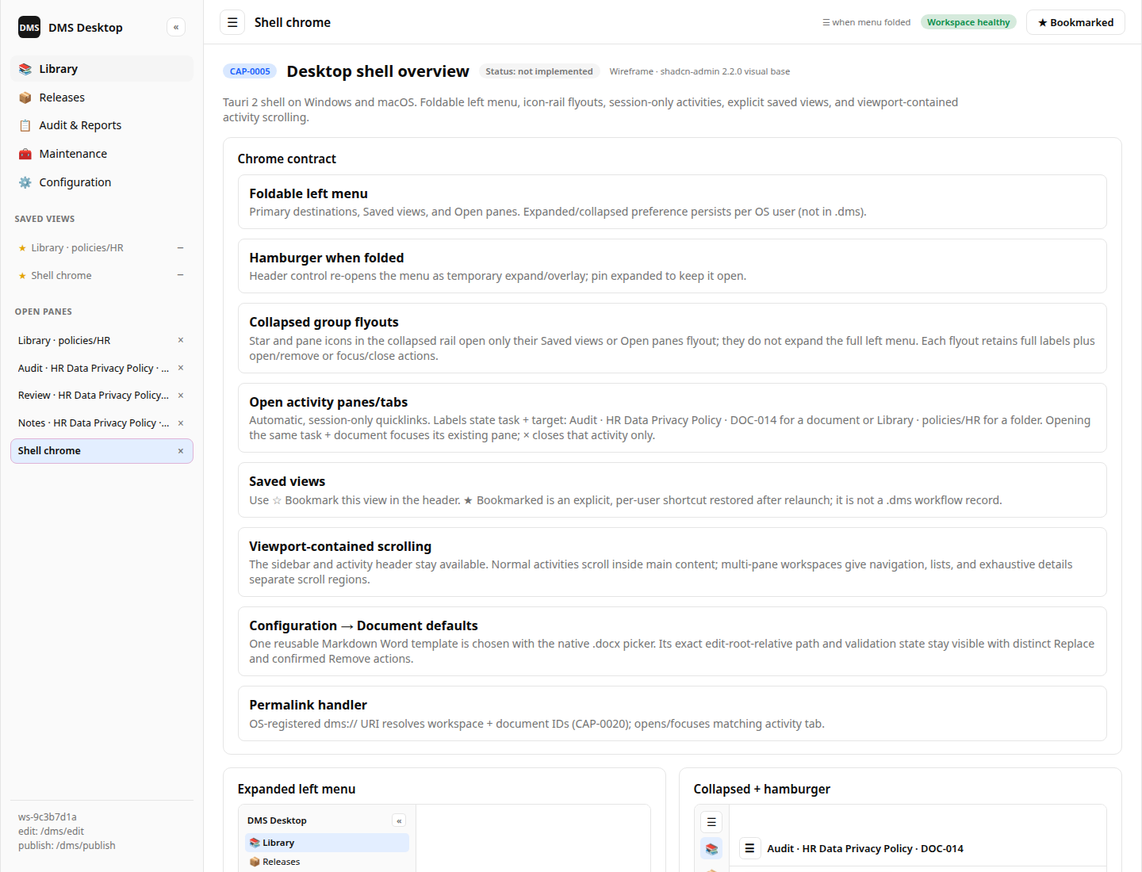
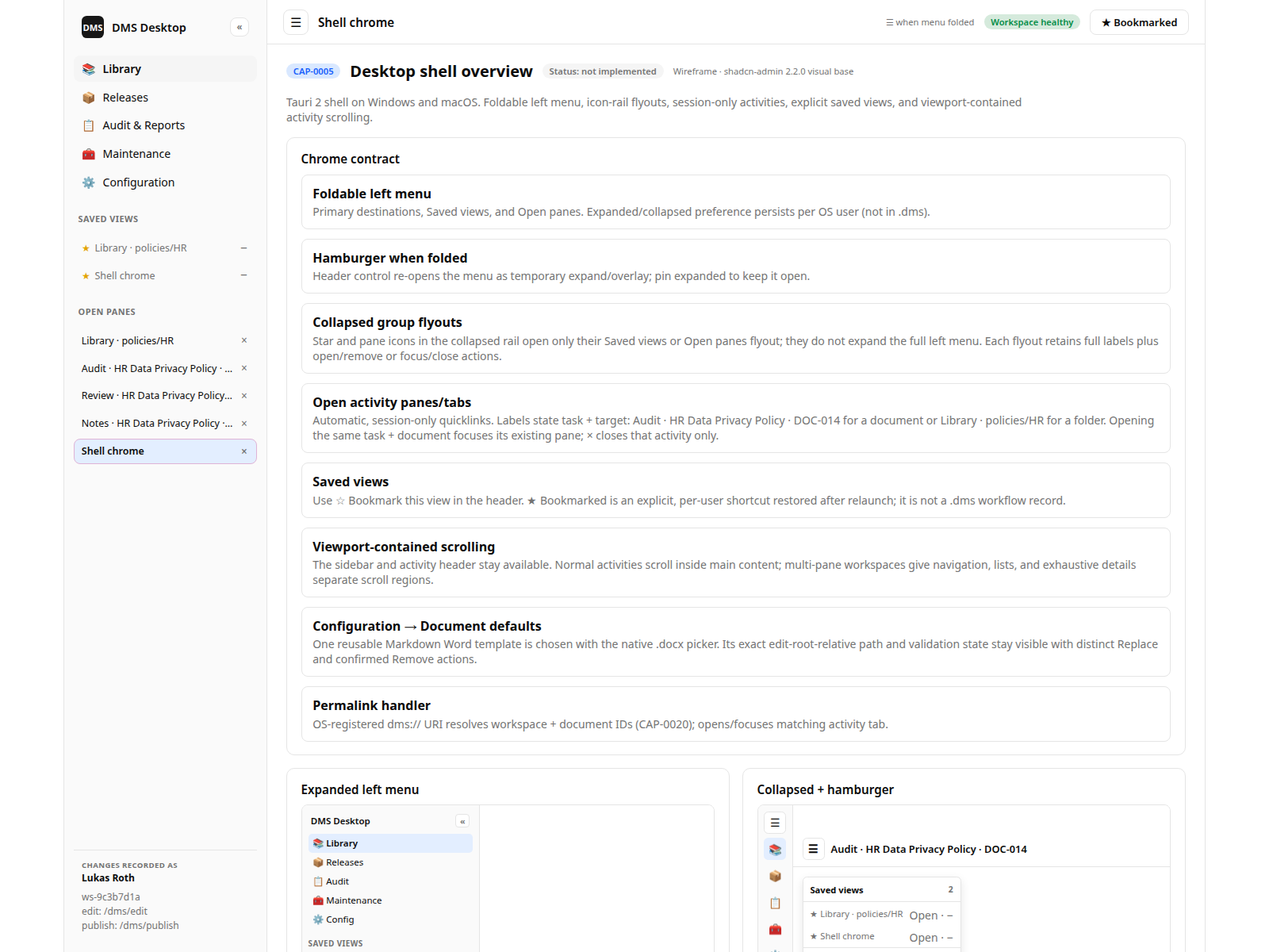
feat(library): show local change author
- Let Library operators see the local OS identity DMS records for ordinary changes.
- Keep the displayed author distinct from Microsoft Entra approval identity.
- Add the workspace-summary field, escaped sidebar markup, coverage, and CAP/wireframe evidence.

This change makes the recorded change author visible before an operator acts.

Affected files/components:
- crates/dms-desktop/src/lib.rs
- crates/dms-desktop/ui/app.mjs
- crates/dms-desktop/ui/app.test.mjs
- crates/dms-desktop/ui/styles.css
- docs/product/capabilities/CAP-0005-desktop-shell.md
- docs/product/wireframes/
- docs/changes/archive/CHG-0031-library-change-author-identity.md

diff --git a/docs/product/wireframes/html/CAP-0005-desktop-shell.html b/docs/product/wireframes/html/CAP-0005-desktop-shell.html
@@ -60,6 +60,8 @@ code { font-family: ui-monospace, SFMono-Regular, Menlo, monospace; font-size: 0
 .pane-close { color: var(--muted-foreground); font-size: 0.85rem; line-height: 1; padding: 0 0.15rem; }
 .pane-remove { color: var(--muted-foreground); font-size: 0.95rem; line-height: 1; padding: 0 0.15rem; }
 .sidebar-foot { margin-top: auto; padding: 0.75rem 0.625rem; font-size: 0.75rem; color: var(--muted-foreground); line-height: 1.5; border-top: 1px solid var(--sidebar-border); }
+.foot-label { display: block; color: var(--muted-foreground); font-size: 0.6rem; font-weight: 700; letter-spacing: 0.04em; text-transform: uppercase; }
+.sidebar-foot > strong, .mini-foot > strong { display: block; margin-bottom: 0.35rem; color: var(--foreground); }
 .main { flex: 1; min-width: 0; display: flex; flex-direction: column; background: var(--background); }
 .header { height: 3.5rem; border-bottom: 1px solid var(--border); display: flex; align-items: center; gap: 0.75rem; padding: 0 1.25rem; }
 .header h1 { font-size: 0.95rem; font-weight: 600; margin: 0; }
@@ -258,6 +260,8 @@ tr:last-child td { border-bottom: 0; }
     <div class="pane-sec">Open panes</div>
     <div class="pane-tabs"><div class="pane-tab"><span class="pane-label" title="Library · policies/HR">Library · policies/HR</span><span class="pane-close">×</span></div><div class="pane-tab"><span class="pane-label" title="Audit · HR Data Privacy Policy · DOC-014">Audit · HR Data Privacy Policy · DOC-014</span><span class="pane-close">×</span></div><div class="pane-tab"><span class="pane-label" title="Review · HR Data Privacy Policy · DOC-014">Review · HR Data Privacy Policy · DOC-014</span><span class="pane-close">×</span></div><div class="pane-tab"><span class="pane-label" title="Notes · HR Data Privacy Policy · DOC-014">Notes · HR Data Privacy Policy · DOC-014</span><span class="pane-close">×</span></div><div class="pane-tab active"><span class="pane-label" title="Shell chrome">Shell chrome</span><span class="pane-close">×</span></div></div>
     <div class="sidebar-foot">
+      <span class="foot-label">Changes recorded as</span>
+      <strong>Lukas Roth</strong>
       ws-9c3b7d1a<br/>
       edit: /dms/edit<br/>
       publish: /dms/publish
@@ -328,7 +332,7 @@ tr:last-child td { border-bottom: 0; }
                 <div>Audit · HR Data Privacy Policy · DOC-014 <span>×</span></div>
                 <div>Review · HR Data Privacy Policy · DOC-014 <span>×</span></div>
               </div>
-              <div class="mini-foot">ws-9c3b7d1a<br/>edit: /dms/edit<br/>publish: /dms/publish</div>
+              <div class="mini-foot"><span class="foot-label">Changes recorded as</span><strong>Lukas Roth</strong><br/>ws-9c3b7d1a<br/>edit: /dms/edit<br/>publish: /dms/publish</div>
             </div>
             <div class="mini-main"><div class="mini-header">Library · policies/HR <span class="mini-bookmark">☆ Bookmark this view</span></div><p class="muted" style="padding:0.75rem;margin:0;font-size:0.75rem">The selected Open pane and this header identify the current surface.</p></div>
           </div>

diff --git a/docs/product/wireframes/html/CAP-0015-document-control-data.html b/docs/product/wireframes/html/CAP-0015-document-control-data.html
@@ -60,6 +60,8 @@ code { font-family: ui-monospace, SFMono-Regular, Menlo, monospace; font-size: 0
 .pane-close { color: var(--muted-foreground); font-size: 0.85rem; line-height: 1; padding: 0 0.15rem; }
 .pane-remove { color: var(--muted-foreground); font-size: 0.95rem; line-height: 1; padding: 0 0.15rem; }
 .sidebar-foot { margin-top: auto; padding: 0.75rem 0.625rem; font-size: 0.75rem; color: var(--muted-foreground); line-height: 1.5; border-top: 1px solid var(--sidebar-border); }
+.foot-label { display: block; color: var(--muted-foreground); font-size: 0.6rem; font-weight: 700; letter-spacing: 0.04em; text-transform: uppercase; }
+.sidebar-foot > strong, .mini-foot > strong { display: block; margin-bottom: 0.35rem; color: var(--foreground); }
 .main { flex: 1; min-width: 0; display: flex; flex-direction: column; background: var(--background); }
 .header { height: 3.5rem; border-bottom: 1px solid var(--border); display: flex; align-items: center; gap: 0.75rem; padding: 0 1.25rem; }
 .header h1 { font-size: 0.95rem; font-weight: 600; margin: 0; }
@@ -258,6 +260,8 @@ tr:last-child td { border-bottom: 0; }
     <div class="pane-sec">Open panes</div>
     <div class="pane-tabs"><div class="pane-tab"><span class="pane-label" title="Library · policies/HR">Library · policies/HR</span><span class="pane-close">×</span></div><div class="pane-tab"><span class="pane-label" title="Audit · HR Data Privacy Policy · DOC-014">Audit · HR Data Privacy Policy · DOC-014</span><span class="pane-close">×</span></div><div class="pane-tab"><span class="pane-label" title="Review · HR Data Privacy Policy · DOC-014">Review · HR Data Privacy Policy · DOC-014</span><span class="pane-close">×</span></div><div class="pane-tab"><span class="pane-label" title="Notes · HR Data Privacy Policy · DOC-014">Notes · HR Data Privacy Policy · DOC-014</span><span class="pane-close">×</span></div><div class="pane-tab active"><span class="pane-label" title="Document · HR Data Privacy Policy · DOC-014">Document · HR Data Privacy Policy · DOC-014</span><span class="pane-close">×</span></div></div>
     <div class="sidebar-foot">
+      <span class="foot-label">Changes recorded as</span>
+      <strong>Lukas Roth</strong>
       ws-9c3b7d1a<br/>
       edit: /dms/edit<br/>
       publish: /dms/publish

diff --git a/docs/product/wireframes/html/CAP-0020-document-permalinks.html b/docs/product/wireframes/html/CAP-0020-document-permalinks.html
@@ -60,6 +60,8 @@ code { font-family: ui-monospace, SFMono-Regular, Menlo, monospace; font-size: 0
 .pane-close { color: var(--muted-foreground); font-size: 0.85rem; line-height: 1; padding: 0 0.15rem; }
 .pane-remove { color: var(--muted-foreground); font-size: 0.95rem; line-height: 1; padding: 0 0.15rem; }
 .sidebar-foot { margin-top: auto; padding: 0.75rem 0.625rem; font-size: 0.75rem; color: var(--muted-foreground); line-height: 1.5; border-top: 1px solid var(--sidebar-border); }
+.foot-label { display: block; color: var(--muted-foreground); font-size: 0.6rem; font-weight: 700; letter-spacing: 0.04em; text-transform: uppercase; }
+.sidebar-foot > strong, .mini-foot > strong { display: block; margin-bottom: 0.35rem; color: var(--foreground); }
 .main { flex: 1; min-width: 0; display: flex; flex-direction: column; background: var(--background); }
 .header { height: 3.5rem; border-bottom: 1px solid var(--border); display: flex; align-items: center; gap: 0.75rem; padding: 0 1.25rem; }
 .header h1 { font-size: 0.95rem; font-weight: 600; margin: 0; }
@@ -258,6 +260,8 @@ tr:last-child td { border-bottom: 0; }
     <div class="pane-sec">Open panes</div>
     <div class="pane-tabs"><div class="pane-tab"><span class="pane-label" title="Library · policies/HR">Library · policies/HR</span><span class="pane-close">×</span></div><div class="pane-tab"><span class="pane-label" title="Audit · HR Data Privacy Policy · DOC-014">Audit · HR Data Privacy Policy · DOC-014</span><span class="pane-close">×</span></div><div class="pane-tab"><span class="pane-label" title="Review · HR Data Privacy Policy · DOC-014">Review · HR Data Privacy Policy · DOC-014</span><span class="pane-close">×</span></div><div class="pane-tab"><span class="pane-label" title="Notes · HR Data Privacy Policy · DOC-014">Notes · HR Data Privacy Policy · DOC-014</span><span class="pane-close">×</span></div><div class="pane-tab active"><span class="pane-label" title="Document · HR Data Privacy Policy · DOC-014">Document · HR Data Privacy Policy · DOC-014</span><span class="pane-close">×</span></div></div>
     <div class="sidebar-foot">
+      <span class="foot-label">Changes recorded as</span>
+      <strong>Lukas Roth</strong>
       ws-9c3b7d1a<br/>
       edit: /dms/edit<br/>
       publish: /dms/publish

diff --git a/docs/product/wireframes/html/CAP-0001-local-folder-dms.html b/docs/product/wireframes/html/CAP-0001-local-folder-dms.html
@@ -60,6 +60,8 @@ code { font-family: ui-monospace, SFMono-Regular, Menlo, monospace; font-size: 0
 .pane-close { color: var(--muted-foreground); font-size: 0.85rem; line-height: 1; padding: 0 0.15rem; }
 .pane-remove { color: var(--muted-foreground); font-size: 0.95rem; line-height: 1; padding: 0 0.15rem; }
 .sidebar-foot { margin-top: auto; padding: 0.75rem 0.625rem; font-size: 0.75rem; color: var(--muted-foreground); line-height: 1.5; border-top: 1px solid var(--sidebar-border); }
+.foot-label { display: block; color: var(--muted-foreground); font-size: 0.6rem; font-weight: 700; letter-spacing: 0.04em; text-transform: uppercase; }
+.sidebar-foot > strong, .mini-foot > strong { display: block; margin-bottom: 0.35rem; color: var(--foreground); }
 .main { flex: 1; min-width: 0; display: flex; flex-direction: column; background: var(--background); }
 .header { height: 3.5rem; border-bottom: 1px solid var(--border); display: flex; align-items: center; gap: 0.75rem; padding: 0 1.25rem; }
 .header h1 { font-size: 0.95rem; font-weight: 600; margin: 0; }
@@ -272,6 +274,8 @@ tr:last-child td { border-bottom: 0; }
     <div class="pane-sec">Open panes</div>
     <div class="pane-tabs"><div class="pane-tab"><span class="pane-label" title="Library · policies/HR">Library · policies/HR</span><span class="pane-close">×</span></div><div class="pane-tab"><span class="pane-label" title="Audit · HR Data Privacy Policy · DOC-014">Audit · HR Data Privacy Policy · DOC-014</span><span class="pane-close">×</span></div><div class="pane-tab"><span class="pane-label" title="Review · HR Data Privacy Policy · DOC-014">Review · HR Data Privacy Policy · DOC-014</span><span class="pane-close">×</span></div><div class="pane-tab"><span class="pane-label" title="Notes · HR Data Privacy Policy · DOC-014">Notes · HR Data Privacy Policy · DOC-014</span><span class="pane-close">×</span></div><div class="pane-tab active"><span class="pane-label" title="Configuration">Configuration</span><span class="pane-close">×</span></div></div>
     <div class="sidebar-foot">
+      <span class="foot-label">Changes recorded as</span>
+      <strong>Lukas Roth</strong>
       ws-9c3b7d1a<br/>
       edit: /dms/edit<br/>
       publish: /dms/publish

diff --git a/docs/product/wireframes/html/CAP-0008-confidentiality-classification.html b/docs/product/wireframes/html/CAP-0008-confidentiality-classification.html
@@ -60,6 +60,8 @@ code { font-family: ui-monospace, SFMono-Regular, Menlo, monospace; font-size: 0
 .pane-close { color: var(--muted-foreground); font-size: 0.85rem; line-height: 1; padding: 0 0.15rem; }
 .pane-remove { color: var(--muted-foreground); font-size: 0.95rem; line-height: 1; padding: 0 0.15rem; }
 .sidebar-foot { margin-top: auto; padding: 0.75rem 0.625rem; font-size: 0.75rem; color: var(--muted-foreground); line-height: 1.5; border-top: 1px solid var(--sidebar-border); }
+.foot-label { display: block; color: var(--muted-foreground); font-size: 0.6rem; font-weight: 700; letter-spacing: 0.04em; text-transform: uppercase; }
+.sidebar-foot > strong, .mini-foot > strong { display: block; margin-bottom: 0.35rem; color: var(--foreground); }
 .main { flex: 1; min-width: 0; display: flex; flex-direction: column; background: var(--background); }
 .header { height: 3.5rem; border-bottom: 1px solid var(--border); display: flex; align-items: center; gap: 0.75rem; padding: 0 1.25rem; }
 .header h1 { font-size: 0.95rem; font-weight: 600; margin: 0; }
@@ -272,6 +274,8 @@ tr:last-child td { border-bottom: 0; }
     <div class="pane-sec">Open panes</div>
     <div class="pane-tabs"><div class="pane-tab"><span class="pane-label" title="Library · policies/HR">Library · policies/HR</span><span class="pane-close">×</span></div><div class="pane-tab"><span class="pane-label" title="Audit · HR Data Privacy Policy · DOC-014">Audit · HR Data Privacy Policy · DOC-014</span><span class="pane-close">×</span></div><div class="pane-tab"><span class="pane-label" title="Review · HR Data Privacy Policy · DOC-014">Review · HR Data Privacy Policy · DOC-014</span><span class="pane-close">×</span></div><div class="pane-tab"><span class="pane-label" title="Notes · HR Data Privacy Policy · DOC-014">Notes · HR Data Privacy Policy · DOC-014</span><span class="pane-close">×</span></div><div class="pane-tab active"><span class="pane-label" title="Configuration">Configuration</span><span class="pane-close">×</span></div></div>
     <div class="sidebar-foot">
+      <span class="foot-label">Changes recorded as</span>
+      <strong>Lukas Roth</strong>
       ws-9c3b7d1a<br/>
       edit: /dms/edit<br/>
       publish: /dms/publish

diff --git a/docs/product/wireframes/html/CAP-0010-notification-transport.html b/docs/product/wireframes/html/CAP-0010-notification-transport.html
@@ -60,6 +60,8 @@ code { font-family: ui-monospace, SFMono-Regular, Menlo, monospace; font-size: 0
 .pane-close { color: var(--muted-foreground); font-size: 0.85rem; line-height: 1; padding: 0 0.15rem; }
 .pane-remove { color: var(--muted-foreground); font-size: 0.95rem; line-height: 1; padding: 0 0.15rem; }
 .sidebar-foot { margin-top: auto; padding: 0.75rem 0.625rem; font-size: 0.75rem; color: var(--muted-foreground); line-height: 1.5; border-top: 1px solid var(--sidebar-border); }
+.foot-label { display: block; color: var(--muted-foreground); font-size: 0.6rem; font-weight: 700; letter-spacing: 0.04em; text-transform: uppercase; }
+.sidebar-foot > strong, .mini-foot > strong { display: block; margin-bottom: 0.35rem; color: var(--foreground); }
 .main { flex: 1; min-width: 0; display: flex; flex-direction: column; background: var(--background); }
 .header { height: 3.5rem; border-bottom: 1px solid var(--border); display: flex; align-items: center; gap: 0.75rem; padding: 0 1.25rem; }
 .header h1 { font-size: 0.95rem; font-weight: 600; margin: 0; }
@@ -272,6 +274,8 @@ tr:last-child td { border-bottom: 0; }
     <div class="pane-sec">Open panes</div>
     <div class="pane-tabs"><div class="pane-tab"><span class="pane-label" title="Library · policies/HR">Library · policies/HR</span><span class="pane-close">×</span></div><div class="pane-tab"><span class="pane-label" title="Audit · HR Data Privacy Policy · DOC-014">Audit · HR Data Privacy Policy · DOC-014</span><span class="pane-close">×</span></div><div class="pane-tab"><span class="pane-label" title="Review · HR Data Privacy Policy · DOC-014">Review · HR Data Privacy Policy · DOC-014</span><span class="pane-close">×</span></div><div class="pane-tab"><span class="pane-label" title="Notes · HR Data Privacy Policy · DOC-014">Notes · HR Data Privacy Policy · DOC-014</span><span class="pane-close">×</span></div><div class="pane-tab active"><span class="pane-label" title="Configuration">Configuration</span><span class="pane-close">×</span></div></div>
     <div class="sidebar-foot">
+      <span class="foot-label">Changes recorded as</span>
+      <strong>Lukas Roth</strong>
       ws-9c3b7d1a<br/>
       edit: /dms/edit<br/>
       publish: /dms/publish

diff --git a/docs/product/wireframes/html/CAP-0019-inherited-workflow-role-routing.html b/docs/product/wireframes/html/CAP-0019-inherited-workflow-role-routing.html
@@ -60,6 +60,8 @@ code { font-family: ui-monospace, SFMono-Regular, Menlo, monospace; font-size: 0
 .pane-close { color: var(--muted-foreground); font-size: 0.85rem; line-height: 1; padding: 0 0.15rem; }
 .pane-remove { color: var(--muted-foreground); font-size: 0.95rem; line-height: 1; padding: 0 0.15rem; }
 .sidebar-foot { margin-top: auto; padding: 0.75rem 0.625rem; font-size: 0.75rem; color: var(--muted-foreground); line-height: 1.5; border-top: 1px solid var(--sidebar-border); }
+.foot-label { display: block; color: var(--muted-foreground); font-size: 0.6rem; font-weight: 700; letter-spacing: 0.04em; text-transform: uppercase; }
+.sidebar-foot > strong, .mini-foot > strong { display: block; margin-bottom: 0.35rem; color: var(--foreground); }
 .main { flex: 1; min-width: 0; display: flex; flex-direction: column; background: var(--background); }
 .header { height: 3.5rem; border-bottom: 1px solid var(--border); display: flex; align-items: center; gap: 0.75rem; padding: 0 1.25rem; }
 .header h1 { font-size: 0.95rem; font-weight: 600; margin: 0; }
@@ -272,6 +274,8 @@ tr:last-child td { border-bottom: 0; }
     <div class="pane-sec">Open panes</div>
     <div class="pane-tabs"><div class="pane-tab"><span class="pane-label" title="Library · policies/HR">Library · policies/HR</span><span class="pane-close">×</span></div><div class="pane-tab"><span class="pane-label" title="Audit · HR Data Privacy Policy · DOC-014">Audit · HR Data Privacy Policy · DOC-014</span><span class="pane-close">×</span></div><div class="pane-tab"><span class="pane-label" title="Review · HR Data Privacy Policy · DOC-014">Review · HR Data Privacy Policy · DOC-014</span><span class="pane-close">×</span></div><div class="pane-tab"><span class="pane-label" title="Notes · HR Data Privacy Policy · DOC-014">Notes · HR Data Privacy Policy · DOC-014</span><span class="pane-close">×</span></div><div class="pane-tab active"><span class="pane-label" title="Configuration">Configuration</span><span class="pane-close">×</span></div></div>
     <div class="sidebar-foot">
+      <span class="foot-label">Changes recorded as</span>
+      <strong>Lukas Roth</strong>
       ws-9c3b7d1a<br/>
       edit: /dms/edit<br/>
       publish: /dms/publish

diff --git a/docs/product/wireframes/html/CAP-0021-microsoft-entra-workflow-identity.html b/docs/product/wireframes/html/CAP-0021-microsoft-entra-workflow-identity.html
@@ -60,6 +60,8 @@ code { font-family: ui-monospace, SFMono-Regular, Menlo, monospace; font-size: 0
 .pane-close { color: var(--muted-foreground); font-size: 0.85rem; line-height: 1; padding: 0 0.15rem; }
 .pane-remove { color: var(--muted-foreground); font-size: 0.95rem; line-height: 1; padding: 0 0.15rem; }
 .sidebar-foot { margin-top: auto; padding: 0.75rem 0.625rem; font-size: 0.75rem; color: var(--muted-foreground); line-height: 1.5; border-top: 1px solid var(--sidebar-border); }
+.foot-label { display: block; color: var(--muted-foreground); font-size: 0.6rem; font-weight: 700; letter-spacing: 0.04em; text-transform: uppercase; }
+.sidebar-foot > strong, .mini-foot > strong { display: block; margin-bottom: 0.35rem; color: var(--foreground); }
 .main { flex: 1; min-width: 0; display: flex; flex-direction: column; background: var(--background); }
 .header { height: 3.5rem; border-bottom: 1px solid var(--border); display: flex; align-items: center; gap: 0.75rem; padding: 0 1.25rem; }
 .header h1 { font-size: 0.95rem; font-weight: 600; margin: 0; }
@@ -272,6 +274,8 @@ tr:last-child td { border-bottom: 0; }
     <div class="pane-sec">Open panes</div>
     <div class="pane-tabs"><div class="pane-tab"><span class="pane-label" title="Library · policies/HR">Library · policies/HR</span><span class="pane-close">×</span></div><div class="pane-tab"><span class="pane-label" title="Audit · HR Data Privacy Policy · DOC-014">Audit · HR Data Privacy Policy · DOC-014</span><span class="pane-close">×</span></div><div class="pane-tab"><span class="pane-label" title="Review · HR Data Privacy Policy · DOC-014">Review · HR Data Privacy Policy · DOC-014</span><span class="pane-close">×</span></div><div class="pane-tab"><span class="pane-label" title="Notes · HR Data Privacy Policy · DOC-014">Notes · HR Data Privacy Policy · DOC-014</span><span class="pane-close">×</span></div><div class="pane-tab active"><span class="pane-label" title="Configuration">Configuration</span><span class="pane-close">×</span></div></div>
     <div class="sidebar-foot">
+      <span class="foot-label">Changes recorded as</span>
+      <strong>Lukas Roth</strong>
       ws-9c3b7d1a<br/>
       edit: /dms/edit<br/>
       publish: /dms/publish

diff --git a/docs/product/wireframes/html/CAP-0013-library-maintenance.html b/docs/product/wireframes/html/CAP-0013-library-maintenance.html
@@ -60,6 +60,8 @@ code { font-family: ui-monospace, SFMono-Regular, Menlo, monospace; font-size: 0
 .pane-close { color: var(--muted-foreground); font-size: 0.85rem; line-height: 1; padding: 0 0.15rem; }
 .pane-remove { color: var(--muted-foreground); font-size: 0.95rem; line-height: 1; padding: 0 0.15rem; }
 .sidebar-foot { margin-top: auto; padding: 0.75rem 0.625rem; font-size: 0.75rem; color: var(--muted-foreground); line-height: 1.5; border-top: 1px solid var(--sidebar-border); }
+.foot-label { display: block; color: var(--muted-foreground); font-size: 0.6rem; font-weight: 700; letter-spacing: 0.04em; text-transform: uppercase; }
+.sidebar-foot > strong, .mini-foot > strong { display: block; margin-bottom: 0.35rem; color: var(--foreground); }
 .main { flex: 1; min-width: 0; display: flex; flex-direction: column; background: var(--background); }
 .header { height: 3.5rem; border-bottom: 1px solid var(--border); display: flex; align-items: center; gap: 0.75rem; padding: 0 1.25rem; }
 .header h1 { font-size: 0.95rem; font-weight: 600; margin: 0; }
@@ -258,6 +260,8 @@ tr:last-child td { border-bottom: 0; }
     <div class="pane-sec">Open panes</div>
     <div class="pane-tabs"><div class="pane-tab"><span class="pane-label" title="Library · policies/HR">Library · policies/HR</span><span class="pane-close">×</span></div><div class="pane-tab"><span class="pane-label" title="Audit · HR Data Privacy Policy · DOC-014">Audit · HR Data Privacy Policy · DOC-014</span><span class="pane-close">×</span></div><div class="pane-tab"><span class="pane-label" title="Review · HR Data Privacy Policy · DOC-014">Review · HR Data Privacy Policy · DOC-014</span><span class="pane-close">×</span></div><div class="pane-tab"><span class="pane-label" title="Notes · HR Data Privacy Policy · DOC-014">Notes · HR Data Privacy Policy · DOC-014</span><span class="pane-close">×</span></div><div class="pane-tab active"><span class="pane-label" title="Maintenance">Maintenance</span><span class="pane-close">×</span></div></div>
     <div class="sidebar-foot">
+      <span class="foot-label">Changes recorded as</span>
+      <strong>Lukas Roth</strong>
       ws-9c3b7d1a<br/>
       edit: /dms/edit<br/>
       publish: /dms/publish

diff --git a/docs/product/wireframes/html/CAP-0014-workspace-integrity.html b/docs/product/wireframes/html/CAP-0014-workspace-integrity.html
@@ -60,6 +60,8 @@ code { font-family: ui-monospace, SFMono-Regular, Menlo, monospace; font-size: 0
 .pane-close { color: var(--muted-foreground); font-size: 0.85rem; line-height: 1; padding: 0 0.15rem; }
 .pane-remove { color: var(--muted-foreground); font-size: 0.95rem; line-height: 1; padding: 0 0.15rem; }
 .sidebar-foot { margin-top: auto; padding: 0.75rem 0.625rem; font-size: 0.75rem; color: var(--muted-foreground); line-height: 1.5; border-top: 1px solid var(--sidebar-border); }
+.foot-label { display: block; color: var(--muted-foreground); font-size: 0.6rem; font-weight: 700; letter-spacing: 0.04em; text-transform: uppercase; }
+.sidebar-foot > strong, .mini-foot > strong { display: block; margin-bottom: 0.35rem; color: var(--foreground); }
 .main { flex: 1; min-width: 0; display: flex; flex-direction: column; background: var(--background); }
 .header { height: 3.5rem; border-bottom: 1px solid var(--border); display: flex; align-items: center; gap: 0.75rem; padding: 0 1.25rem; }
 .header h1 { font-size: 0.95rem; font-weight: 600; margin: 0; }
@@ -258,6 +260,8 @@ tr:last-child td { border-bottom: 0; }
     <div class="pane-sec">Open panes</div>
     <div class="pane-tabs"><div class="pane-tab"><span class="pane-label" title="Library · policies/HR">Library · policies/HR</span><span class="pane-close">×</span></div><div class="pane-tab"><span class="pane-label" title="Audit · HR Data Privacy Policy · DOC-014">Audit · HR Data Privacy Policy · DOC-014</span><span class="pane-close">×</span></div><div class="pane-tab"><span class="pane-label" title="Review · HR Data Privacy Policy · DOC-014">Review · HR Data Privacy Policy · DOC-014</span><span class="pane-close">×</span></div><div class="pane-tab"><span class="pane-label" title="Notes · HR Data Privacy Policy · DOC-014">Notes · HR Data Privacy Policy · DOC-014</span><span class="pane-close">×</span></div><div class="pane-tab active"><span class="pane-label" title="Maintenance">Maintenance</span><span class="pane-close">×</span></div></div>
     <div class="sidebar-foot">
+      <span class="foot-label">Changes recorded as</span>
+      <strong>Lukas Roth</strong>
       ws-9c3b7d1a<br/>
       edit: /dms/edit<br/>
       publish: /dms/publish

diff --git a/docs/product/wireframes/html/CAP-0004-release-integrity.html b/docs/product/wireframes/html/CAP-0004-release-integrity.html
@@ -60,6 +60,8 @@ code { font-family: ui-monospace, SFMono-Regular, Menlo, monospace; font-size: 0
 .pane-close { color: var(--muted-foreground); font-size: 0.85rem; line-height: 1; padding: 0 0.15rem; }
 .pane-remove { color: var(--muted-foreground); font-size: 0.95rem; line-height: 1; padding: 0 0.15rem; }
 .sidebar-foot { margin-top: auto; padding: 0.75rem 0.625rem; font-size: 0.75rem; color: var(--muted-foreground); line-height: 1.5; border-top: 1px solid var(--sidebar-border); }
+.foot-label { display: block; color: var(--muted-foreground); font-size: 0.6rem; font-weight: 700; letter-spacing: 0.04em; text-transform: uppercase; }
+.sidebar-foot > strong, .mini-foot > strong { display: block; margin-bottom: 0.35rem; color: var(--foreground); }
 .main { flex: 1; min-width: 0; display: flex; flex-direction: column; background: var(--background); }
 .header { height: 3.5rem; border-bottom: 1px solid var(--border); display: flex; align-items: center; gap: 0.75rem; padding: 0 1.25rem; }
 .header h1 { font-size: 0.95rem; font-weight: 600; margin: 0; }
@@ -258,6 +260,8 @@ tr:last-child td { border-bottom: 0; }
     <div class="pane-sec">Open panes</div>
     <div class="pane-tabs"><div class="pane-tab"><span class="pane-label" title="Library · policies/HR">Library · policies/HR</span><span class="pane-close">×</span></div><div class="pane-tab"><span class="pane-label" title="Audit · HR Data Privacy Policy · DOC-014">Audit · HR Data Privacy Policy · DOC-014</span><span class="pane-close">×</span></div><div class="pane-tab"><span class="pane-label" title="Review · HR Data Privacy Policy · DOC-014">Review · HR Data Privacy Policy · DOC-014</span><span class="pane-close">×</span></div><div class="pane-tab"><span class="pane-label" title="Notes · HR Data Privacy Policy · DOC-014">Notes · HR Data Privacy Policy · DOC-014</span><span class="pane-close">×</span></div><div class="pane-tab active"><span class="pane-label" title="Releases">Releases</span><span class="pane-close">×</span></div></div>
     <div class="sidebar-foot">
+      <span class="foot-label">Changes recorded as</span>
+      <strong>Lukas Roth</strong>
       ws-9c3b7d1a<br/>
       edit: /dms/edit<br/>
       publish: /dms/publish

diff --git a/docs/product/wireframes/html/CAP-0007-draft-pdf-export.html b/docs/product/wireframes/html/CAP-0007-draft-pdf-export.html
@@ -60,6 +60,8 @@ code { font-family: ui-monospace, SFMono-Regular, Menlo, monospace; font-size: 0
 .pane-close { color: var(--muted-foreground); font-size: 0.85rem; line-height: 1; padding: 0 0.15rem; }
 .pane-remove { color: var(--muted-foreground); font-size: 0.95rem; line-height: 1; padding: 0 0.15rem; }
 .sidebar-foot { margin-top: auto; padding: 0.75rem 0.625rem; font-size: 0.75rem; color: var(--muted-foreground); line-height: 1.5; border-top: 1px solid var(--sidebar-border); }
+.foot-label { display: block; color: var(--muted-foreground); font-size: 0.6rem; font-weight: 700; letter-spacing: 0.04em; text-transform: uppercase; }
+.sidebar-foot > strong, .mini-foot > strong { display: block; margin-bottom: 0.35rem; color: var(--foreground); }
 .main { flex: 1; min-width: 0; display: flex; flex-direction: column; background: var(--background); }
 .header { height: 3.5rem; border-bottom: 1px solid var(--border); display: flex; align-items: center; gap: 0.75rem; padding: 0 1.25rem; }
 .header h1 { font-size: 0.95rem; font-weight: 600; margin: 0; }
@@ -258,6 +260,8 @@ tr:last-child td { border-bottom: 0; }
     <div class="pane-sec">Open panes</div>
     <div class="pane-tabs"><div class="pane-tab"><span class="pane-label" title="Library · policies/HR">Library · policies/HR</span><span class="pane-close">×</span></div><div class="pane-tab"><span class="pane-label" title="Audit · HR Data Privacy Policy · DOC-014">Audit · HR Data Privacy Policy · DOC-014</span><span class="pane-close">×</span></div><div class="pane-tab"><span class="pane-label" title="Review · HR Data Privacy Policy · DOC-014">Review · HR Data Privacy Policy · DOC-014</span><span class="pane-close">×</span></div><div class="pane-tab"><span class="pane-label" title="Notes · HR Data Privacy Policy · DOC-014">Notes · HR Data Privacy Policy · DOC-014</span><span class="pane-close">×</span></div><div class="pane-tab active"><span class="pane-label" title="Releases">Releases</span><span class="pane-close">×</span></div></div>
     <div class="sidebar-foot">
+      <span class="foot-label">Changes recorded as</span>
+      <strong>Lukas Roth</strong>
       ws-9c3b7d1a<br/>
       edit: /dms/edit<br/>
       publish: /dms/publish
